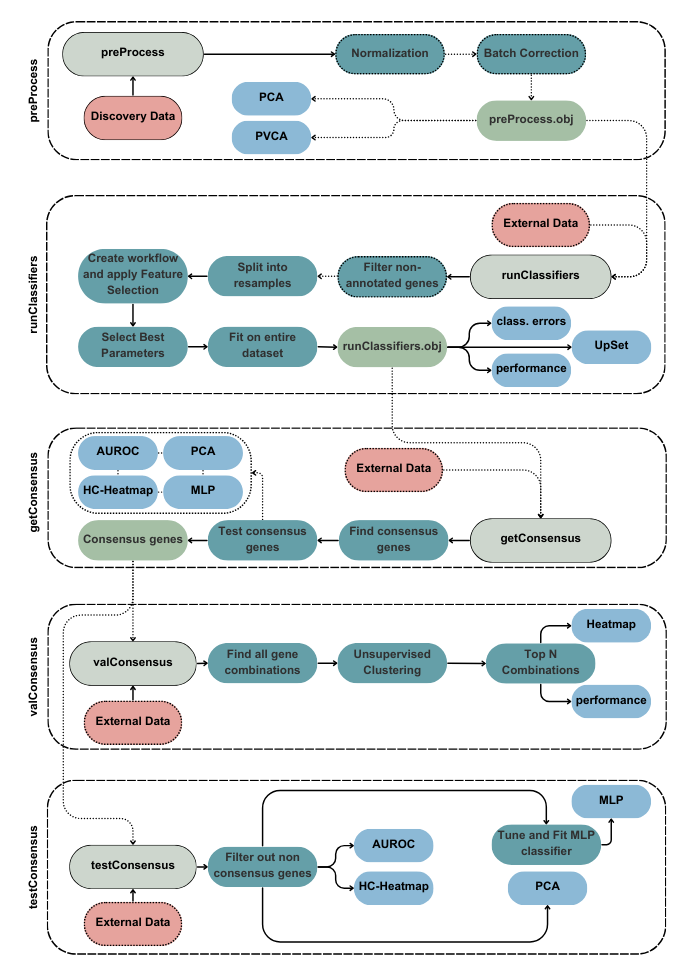
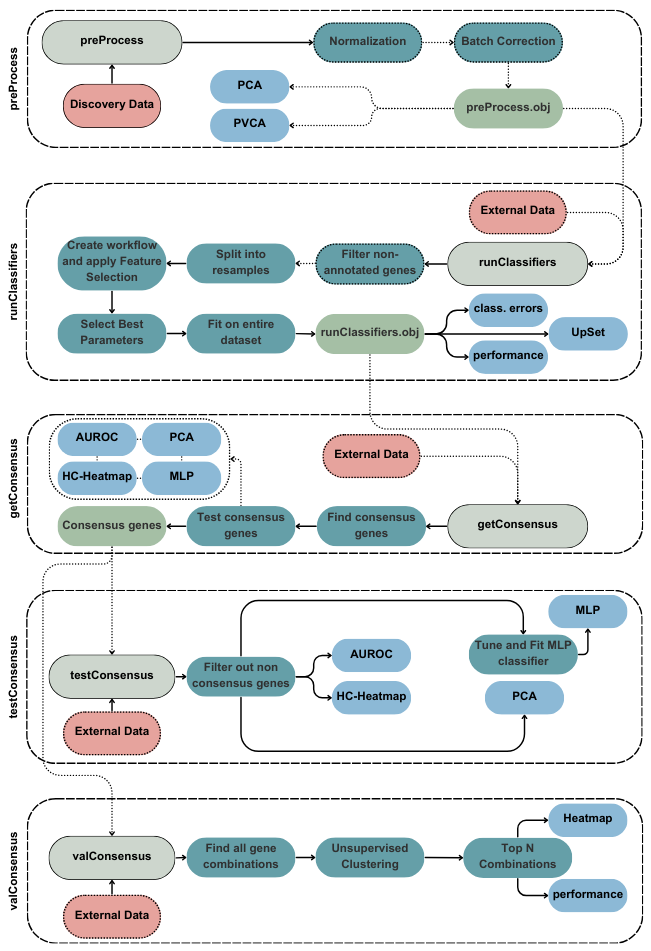
Inverted test and valConsensus in README, Added patchwork dependency and updated figure workflow

Changed region(s): [[0.0, 0.0, 1.0, 1.0], [0.9524, 0.0305, 1.0, 0.1525], [0.9524, 0.5489, 0.9831, 0.5794]]

diff --git a/README.md b/README.md
@@ -27,14 +27,7 @@ The TENTACLES workflow is built around five key steps:
 
     -   Variable importance rankings from a Multi-Layer Perceptron (MLP) model.
 
-4.  **Validation (`valConsensus`)**\
-    Validate the consensus biomarkers by testing all possible combinations on external datasets. This step uses six different unsupervised clustering methods to ensure generalizability. Visualizations include:
-
-    -   Model performance plots for the top N combinations of genes.
-
-    -   A heatmap showing AUROC values for these combinations.
-
-5.  **Testing (`testConsensus`)**\
+4.  **Testing (`testConsensus`)**\
     Further assess the consensus biomarkers on external datasets. This step evaluates their effectiveness using:
 
     -   PCA.
@@ -44,6 +37,13 @@ The TENTACLES workflow is built around five key steps:
     -   Heatmaps combined with hierarchical clustering.
 
     -   Tuning and fitting an MLP model for deeper analysis.
+
+5.  **Validation (`valConsensus`)**\
+    Validate the consensus biomarkers by testing all possible combinations on external datasets. This step uses six different unsupervised clustering methods to ensure generalizability. Visualizations include:
+
+    -   Model performance plots for the top N combinations of genes.
+
+    -   A heatmap showing AUROC values for these combinations.
 
 The following flowchart illustrates the functionality of TENTACLES:\
 
